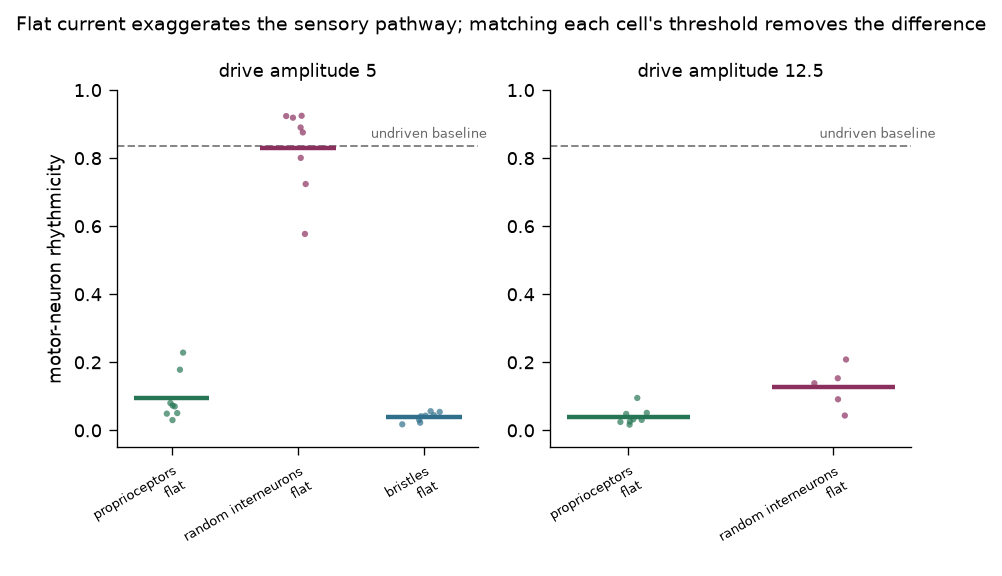
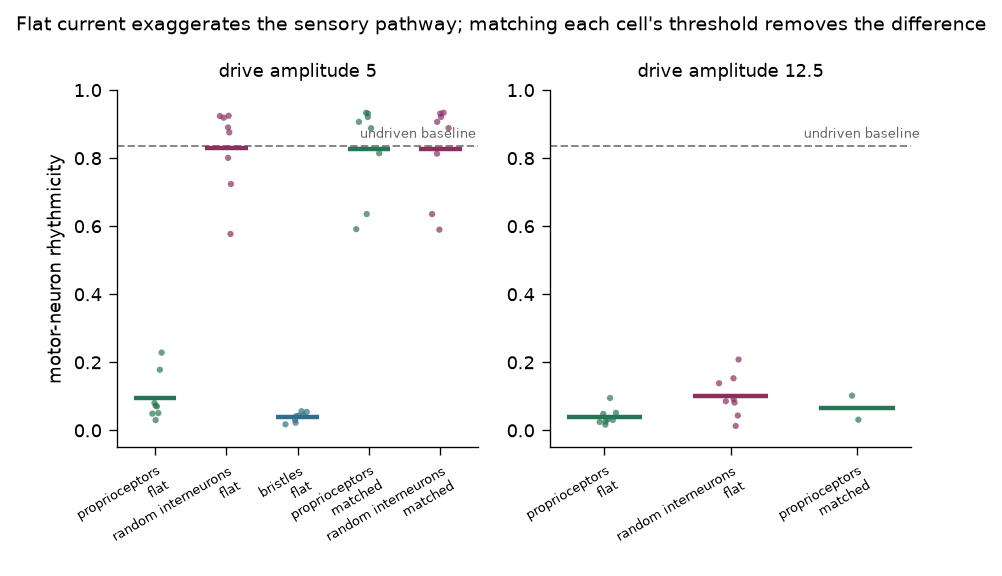
Add driven-population output metrics; fix the drive-target figure glob

diff --git a/scripts/make_figures2.py b/scripts/make_figures2.py
@@ -43,10 +43,12 @@ def load(pattern: str) -> pd.DataFrame:
 
 def fig_drive_targets() -> None:
     """Unmatched versus threshold-matched drive, by target population."""
-    df = load("pugliese-baseline-n8-papertol-S*")
+    df = load("pugliese-baseline-n8-papertol-*S*")
     if df.empty:
         return
-    df = df[~df.run.str.contains("probe|test")]
+    df = df[df.run.str.contains("papertol") & ~df.run.str.contains("probe|test|tm1|tm2")]
+    if df.empty:
+        return
     def parse(r):
         amp = float(re.search(r"-S([\d.]+)", r).group(1))
         tgt = "random interneurons" if "rand" in r else (
